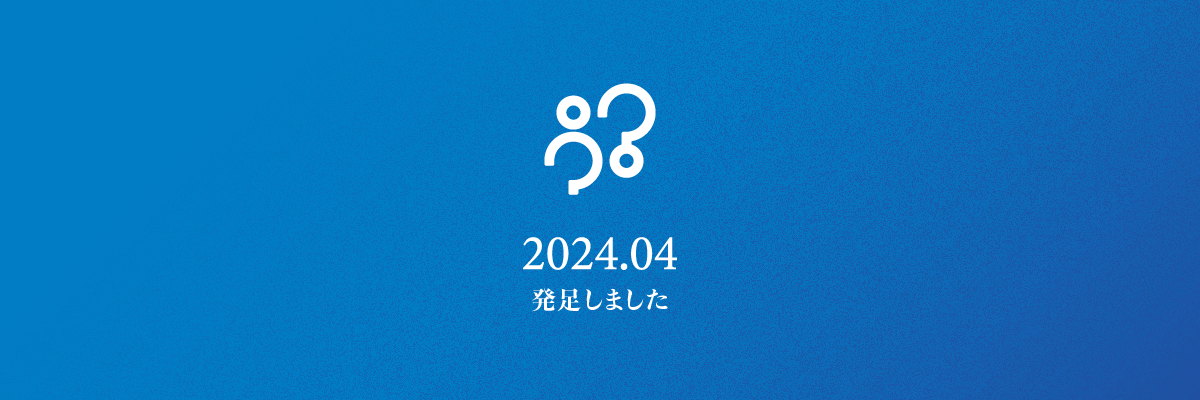
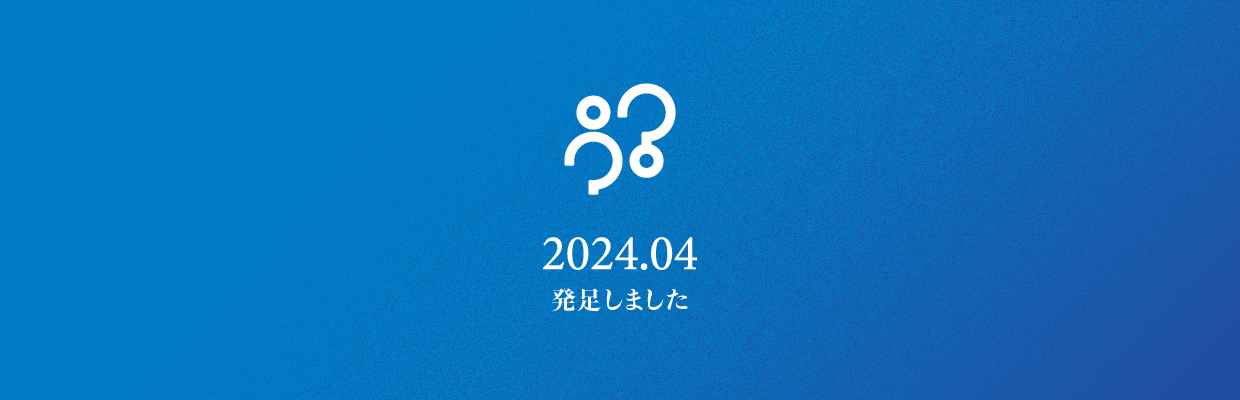
add top-visual slider

diff --git a/docs/static/css/style.css b/docs/static/css/style.css
@@ -1,1 +1,1 @@
-blockquote,body,dd,dl,figure,h1,h2,h3,h4,ol,p,ul{margin:0}a,body,html{color:var(--theme-color)}.ic,.top #header,div.app{position:relative}*,::after,::before{box-sizing:border-box}html{-moz-text-size-adjust:none;-webkit-text-size-adjust:none;text-size-adjust:none}ol[role=list],ul[role=list]{list-style:none}body{min-height:100vh;line-height:1.5}button,h1,h2,h3,h4,input,label{line-height:1.1}a:not([class]){text-decoration-skip-ink:auto;color:currentColor}.ic-web:before,a:hover{color:var(--accent-color)}img,picture{max-width:100%;display:block}button,input,select,textarea{font:inherit}textarea:not([rows]){min-height:10em}:target{scroll-margin-block:5ex}ol,ul{padding:0}:root{--font-family-serif:"Noto Serif JP",serif;--font-family-sans:"Noto Sans JP",Helvetica,Arial,sans-serif;--theme-color:#334;--accent-color:#007dc5;--side-margin:20px;--base-font-size:16px}.clearfix::after,main div.content article ol.multi-line ul::after,main div.content article ol.publication ul::after{content:"";display:block;clear:both}*{font-feature-settings:"palt";letter-spacing:.1rem;text-wrap:pretty}h1,h2,h3{background:linear-gradient(45deg,#303a91,#007dc5 25%);background:-webkit-linear-gradient(45deg,#303a91,#007dc5 25%);-webkit-background-clip:text;-webkit-text-fill-color:transparent}p{text-align:justify}body,html{font-family:var(--font-family-sans);font-size:var(--base-font-size)}a{text-decoration:none}.ic{font-family:"Material Icons Round";font-weight:400;font-style:normal;font-size:24px;display:inline-block;line-height:1;text-transform:none;letter-spacing:normal;word-wrap:normal;white-space:nowrap;direction:ltr;-webkit-font-smoothing:antialiased;text-rendering:optimizeLegibility;-moz-osx-font-smoothing:grayscale;font-feature-settings:"liga";top:2px}.ic-web:before{content:"public"}div.app{width:min(100vw,1280px);min-height:100vh;margin:0 auto}.top #header{overflow:hidden;width:100%;height:clamp(280px,28vw + 100px,460px)}.top #header div.logomark{position:relative;z-index:15;top:70px;left:clamp(15px,3.125vw,40px);width:clamp(90px,14.1%,180px);aspect-ratio:1}.top #header div.logomark:before{content:"";position:absolute;width:100%;height:100%;background:url(../img/logo/logomark.png) center center/100% auto no-repeat}.top #header.fixed div.logomark,.top #header.scaled div.logomark{position:fixed;top:12px;left:max(15px,3.125vw,50vw - 600px)}.top #header.fixed div.logomark{width:50px}.top #header.fixed div.logomark:before,.top #header.scaled div.logomark:before{width:clamp(50px,100%,180px)}.top #header div.logotype{position:absolute;z-index:0;bottom:30px;left:clamp(15px,3.125%,40px);width:clamp(450px,70.3%,900px);aspect-ratio:5}.top #header div.logotype>div{position:absolute;display:block;width:100%;height:100%}.top #header div.logotype>div.en{left:0;width:clamp(155px,34.4%,310px);background:url(../img/logo/logotype-en.png) center bottom/100% auto no-repeat}.top #header div.logotype>div.ja{right:0;width:clamp(280px,62.2%,560px);background:url(../img/logo/logotype-ja.png) center bottom/100% auto no-repeat}.page #header h1.logo a span,.top #header div.logotype>div span{display:none}.top #header div.logotype-fixed{content:"";position:fixed;z-index:15;top:-68px;width:160px;height:50px;margin:0 0 0 calc(clamp(15px,3.125vw,40px) + 56px);background:url(../img/logo/logotype-fixed.png) center center/100% auto no-repeat;opacity:0;transition:top .5s,opacity .3s}.page #header{height:70px}.page #header h1.logo{position:fixed;z-index:12;top:0}.page #header h1.logo a{position:relative;display:block;height:70px;width:calc(216px + clamp(30px,6.25vw,80px))}.page #header h1.logo a:before{content:"";position:absolute;left:clamp(15px,3.125vw,40px);top:12px;width:50px;height:50px;background:url(../img/logo/logomark.png) center center/100% no-repeat}.page #header h1.logo a:after{content:"";position:absolute;right:clamp(15px,3.125vw,40px);top:12px;width:160px;height:50px;background:url(../img/logo/logotype-fixed.png) right center/100% no-repeat}#header .header-fixed{position:fixed;z-index:10;top:0;left:0;width:100vw;height:70px;background:#fff}#header .header-fixed .container{position:relative;width:min(100vw,1280px);margin:0 auto}#header .header-fixed div.ic-drawer{display:block;position:absolute;right:-70px;top:0;width:70px;height:70px;background:url(../img/parts/ic-drawer-open.png) right center/auto 100% no-repeat;opacity:0;transition:right .5s,opacity .3s}#header .header-nav{position:fixed;z-index:11;top:0;width:min(100vw,1280px);height:70px}#header .header-nav ul{float:right;padding:0 30px 0 0}#header .header-nav ul li{list-style:none;float:left}#header .header-nav ul li a{position:relative;display:block;padding:20px 15px;line-height:30px;font-weight:700;font-size:.9rem}#header .header-nav ul li a:before{content:"";position:absolute;top:0;left:0;width:100%;height:6px;background:0 0}#header .header-nav ul li a:hover:before{background:var(--accent-color)}main{display:block;padding:0 var(--side-margin)}main div.slider ul li{list-style:none;width:100%;aspect-ratio:3;border-radius:15px;overflow:hidden}main div.slider ul li img{width:100%;height:100%;object-fit:cover}main header{display:flex;width:100%;height:128px;border-radius:15px;padding:0 0 5px;margin:4px 0 0;background:url(../img/parts/bg-subtitle.png) center center/cover no-repeat}main header h2{align-self:center;flex-grow:1;font-size:1.6rem;padding:0 30px;color:#fff;text-shadow:1px 1px 3px #000;background:0 0;-webkit-background-clip:initial;-webkit-text-fill-color:initial}main header h2 span{font-size:1rem;display:block}main div.content,main div.content-2col{display:block;padding:20px 0 30px}main div.content-2col section{float:left;width:50%;padding:20px}main div.content-2col section h2{margin:0 0 10px}main div.content-2col section *+h2{margin:30px 0 10px}main div.content article p,main div.content-2col section p{padding:0 0 10px}main div.content-2col section img{margin:5px 0 10px;border-radius:5px}main div.content-2col section footer{margin:10px 0;padding:10px;font-size:.8rem;border:1px dotted #ddd;border-width:1px 0 0}main div.content-2col section ul.news{border:1px dotted #ddd;border-width:1px 0 0}main div.content-2col section ul.news li{list-style:none;padding:10px 15px;border:1px dotted #ddd;border-width:0 0 1px}main div.content-2col section ul.news li time{display:block;color:#666;font-size:.9rem}main div.content-2col section div.news-more{text-align:right}main div.content-2col section div.news-more a{display:inline-block;padding:10px}main div.content-2col section div.twitter{margin:15px 5px}main div.content article{width:100%;padding:20px}main div.content article section{padding:0 0 20px}main div.content article h3{padding:10px 0 20px;font-size:1.5rem}main div.content article *+h3{padding:20px 0}main div.content article h4{padding:10px 0 15px;font-size:1.3rem}main div.content article section>p:last-child{padding:0 0 30px}main div.content article img.img-center{margin:20px auto;width:70%;max-width:600px;min-width:min(95%,400px);border-radius:10px}main div.content article div.container-flex-right-img,main div.content article ol.multi-line,main div.content article ol.publication{margin:0 0 20px}main div.content article div.container-flex-right-img img{float:right;margin:10px 20px;width:50%;min-width:400px}main div.content article aside{margin:10px 0;padding:10px;font-size:.8rem;border:1px dotted #ddd;border-width:1px 0}main div.content article div.project-card{margin:10px 0;padding:10px 20px;border:1px solid #eee;border-radius:5px}main div.content article ul{padding:0 0 0 30px;margin:0 0 30px}main div.content article ul li{margin:0 0 5px}main div.content article ul ul{margin:5px 0 15px}main div.content article ul.keyword{padding:0}main div.content article ul.keyword li{list-style:none;display:inline-block;font-size:.8rem;padding:5px 15px;margin:8px 8px 0 0;border-radius:20px;background:#eee}main div.content article ul.people{display:flex;flex-direction:row;flex-wrap:wrap;padding:0;width:100%}main div.content article ul.people li{flex-basis:48%;margin:0 2% 20px 0;list-style:none;text-align:center}main div.content article ul.people li img{width:100%;aspect-ratio:1;border-radius:15px}main div.content article ul.people li h4{padding:8px 0 5px;font-size:1.2rem}main div.content article ul.people li small,main div.content article ul.people li span{display:block;font-size:.9rem;letter-spacing:.05rem}main div.content article ul.people li .ic-web{font-size:1.1rem;padding:0 0 0 5px;margin:0 -10px 0 0}main div.content article ol.multi-line *,main div.content article ol.publication *{font-size:.9rem;letter-spacing:.05rem;text-align:justify;word-wrap:normal;word-break:normal}main div.content article ol.multi-line ul,main div.content article ol.publication ul{padding:0;margin:0}main div.content article ol.multi-line ul li,main div.content article ol.publication ul li{list-style:none;float:left;background:#eee;border-radius:8px;margin:0 5px 0 0}main div.content article ol.multi-line ul li a,main div.content article ol.publication ul li a{display:block;padding:2px 10px 4px}main div.content article ol.multi-line ul li.award,main div.content article ol.publication ul li.award{background:#e5f2f9}main div.content article ol.multi-line li,main div.content article ol.publication li.ref-item{margin:5px 5px 10px 30px}main div.content article ol.publication li.ref-item span.author{font-weight:700}main div.content article ol.publication li.ref-item span.title{display:block;font-weight:700;color:var(--accent-color)}main div.content article ol.publication li.ref-item p{padding:0 0 6px}main div.content article ol.multi-line li a{display:block;padding:0 0 2px}main div.content article ol.multi-line li p{color:var(--accent-color);padding:0 0 6px;line-height:20px;font-weight:700}main div.content article ol.multi-line li span{display:block;padding:2px 0 0;color:#666;line-height:20px;font-weight:400}main div.content article div.access-map{margin:10px 0;padding:0;border-radius:10px;overflow:hidden}main div.content article div.access-map iframe{display:block;width:100%}footer{margin:0 var(--side-margin) 30px}footer div.container{height:500px;background:var(--theme-color) url(../img/logo/logo-footer.png) right 20px bottom 20px no-repeat;background-size:min(320px,60%) auto;border-radius:15px;padding:30px}footer div.container ul li{list-style:none;color:#fff}footer div.container ul li a{display:block;font-weight:700;color:#ccc;padding:5px 10px}footer div.container ul li a:hover{color:#fff}footer p.copyright{display:block;text-align:center;padding:15px 0;font-size:.8rem}@media screen and (min-width:480px){main div.content article ul.people li{flex-basis:31%}}@media screen and ((max-width:640px) or (min-width:780px)){.top #header.fixed div.logotype-fixed{top:12px;opacity:1}}@media screen and (min-width:640px){main div.content nav{position:sticky;top:70px;float:left;width:25%;padding:20px;margin:5px 0}main div.content nav ul li{list-style:none;width:100%;line-height:20px;padding:10px;cursor:pointer}main div.content nav ul li ul{padding:10px 0 0}main div.content nav ul li ul li{list-style:circle;margin:0 0 0 25px;padding:5px 10px}main div.content article{float:right;width:75%}}@media screen and ((min-width:641px) and (max-width:779px)){.page #header h1.logo a:after{display:none}}@media screen and (min-width:920px){main div.content article ul.people li{flex-basis:23%}}@media screen and (max-width:1080px){main div.content article div.container-flex-right-img{display:flex;flex-direction:column}main div.content article div.container-flex-right-img img{order:3;float:none;margin:10px auto 20px;width:100%;max-width:600px;min-width:auto}}@media screen and (max-width:920px){:root{--side-margin:15px;--base-font-size:15px}.top #header{height:clamp(275px,28vw + 95px,455px)}.top #header div.logotype{bottom:25px}#header .header-nav ul li a{padding:20px 8px;font-size:.9rem}main div.slider ul li{aspect-ratio:2.5}}@media screen and (max-width:640px){:root{--side-margin:10px;--base-font-size:14px}.top #header{height:clamp(265px,28vw + 85px,445px)}.top #header div.logotype{bottom:15px;width:70.3%;max-width:155px;aspect-ratio:31/18}.top #header div.logotype>div.en{width:100%}.top #header div.logotype>div.ja{display:none}#header.fixed .header-fixed div.ic-drawer{right:-10px;opacity:1}#header.fixed .header-fixed div.ic-drawer:hover{right:0;cursor:pointer}#header.drawer-opened .header-fixed div.ic-drawer{background:url(../img/parts/ic-drawer-close.png) right center/auto 100% no-repeat}#header .header-nav{position:absolute;width:100vw;height:auto}#header .header-nav ul{position:absolute;top:20px;right:0;width:40vw;padding:0;transition:opacity .3s;background:#fff}#header .header-nav ul li{float:none;width:100%}#header .header-nav ul li a{width:100%;height:30px;padding:0 20px 0 0;text-align:right}#header .header-nav ul li a:before{content:"";position:absolute;top:0;left:auto;right:0;width:6px;height:100%;background:0 0}#header .header-nav ul li a:hover:before{background:var(--accent-color)}#header.fixed .header-nav ul{position:fixed;opacity:0;right:-40vw}#header.drawer-opened .header-nav{position:fixed}#header.drawer-opened .header-nav ul{top:70px;width:100vw;height:calc(100vh - 70px);opacity:1;right:0}#header.drawer-opened .header-nav ul li a{height:40px;line-height:40px;font-size:1rem}main div.slider ul li{aspect-ratio:2}main div.content-2col section{float:none;width:100%}}@media screen and (max-width:639px){main div.content nav{width:100%;padding:15px 10px 5px}main div.content nav ul li{list-style:none;float:left;margin:0 10px 0 0;padding:5px 10px}main div.content nav ul li ul{display:none}}@media screen and (max-width:360px){#header .header-nav ul{opacity:0;right:-40vw}}
+blockquote,body,dd,dl,figure,h1,h2,h3,h4,ol,p,ul{margin:0}a,body,html{color:var(--theme-color)}.ic,.top #header,div.app{position:relative}main div.slider,main header{width:100%;border-radius:15px}*,::after,::before{box-sizing:border-box}html{-moz-text-size-adjust:none;-webkit-text-size-adjust:none;text-size-adjust:none}ol[role=list],ul[role=list]{list-style:none}body{min-height:100vh;line-height:1.5}button,h1,h2,h3,h4,input,label{line-height:1.1}a:not([class]){text-decoration-skip-ink:auto;color:currentColor}.ic-web:before,a:hover{color:var(--accent-color)}img,picture{max-width:100%;display:block}button,input,select,textarea{font:inherit}textarea:not([rows]){min-height:10em}:target{scroll-margin-block:5ex}ol,ul{padding:0}:root{--font-family-serif:"Noto Serif JP",serif;--font-family-sans:"Noto Sans JP",Helvetica,Arial,sans-serif;--theme-color:#334;--accent-color:#007dc5;--side-margin:20px;--base-font-size:16px}.clearfix::after,main div.content article ol.multi-line ul::after,main div.content article ol.publication ul::after{content:"";display:block;clear:both}*{font-feature-settings:"palt";letter-spacing:.1rem;text-wrap:pretty}h1,h2,h3{background:linear-gradient(45deg,#303a91,#007dc5 25%);background:-webkit-linear-gradient(45deg,#303a91,#007dc5 25%);-webkit-background-clip:text;-webkit-text-fill-color:transparent}p{text-align:justify}body,html{font-family:var(--font-family-sans);font-size:var(--base-font-size)}a{text-decoration:none}.ic{font-family:"Material Icons Round";font-weight:400;font-style:normal;font-size:24px;display:inline-block;line-height:1;text-transform:none;letter-spacing:normal;word-wrap:normal;white-space:nowrap;direction:ltr;-webkit-font-smoothing:antialiased;text-rendering:optimizeLegibility;-moz-osx-font-smoothing:grayscale;font-feature-settings:"liga";top:2px}.ic-web:before{content:"public"}div.app{width:min(100vw,1280px);min-height:100vh;margin:0 auto}.top #header{overflow:hidden;width:100%;height:clamp(280px,28vw + 100px,460px)}.top #header div.logomark{position:relative;z-index:15;top:70px;left:clamp(15px,3.125vw,40px);width:clamp(90px,14.1%,180px);aspect-ratio:1}.top #header div.logomark:before{content:"";position:absolute;width:100%;height:100%;background:url(../img/logo/logomark.png) center center/100% auto no-repeat}.top #header.fixed div.logomark,.top #header.scaled div.logomark{position:fixed;top:12px;left:max(15px,3.125vw,50vw - 600px)}.top #header.fixed div.logomark{width:50px}.top #header.fixed div.logomark:before,.top #header.scaled div.logomark:before{width:clamp(50px,100%,180px)}.top #header div.logotype{position:absolute;z-index:0;bottom:30px;left:clamp(15px,3.125%,40px);width:clamp(450px,70.3%,900px);aspect-ratio:5}.top #header div.logotype>div{position:absolute;display:block;width:100%;height:100%}.top #header div.logotype>div.en{left:0;width:clamp(155px,34.4%,310px);background:url(../img/logo/logotype-en.png) center bottom/100% auto no-repeat}.top #header div.logotype>div.ja{right:0;width:clamp(280px,62.2%,560px);background:url(../img/logo/logotype-ja.png) center bottom/100% auto no-repeat}.page #header h1.logo a span,.top #header div.logotype>div span{display:none}.top #header div.logotype-fixed{content:"";position:fixed;z-index:15;top:-68px;width:160px;height:50px;margin:0 0 0 calc(clamp(15px,3.125vw,40px) + 56px);background:url(../img/logo/logotype-fixed.png) center center/100% auto no-repeat;opacity:0;transition:top .5s,opacity .3s}.page #header{height:70px}.page #header h1.logo{position:fixed;z-index:12;top:0}.page #header h1.logo a{position:relative;display:block;height:70px;width:calc(216px + clamp(30px,6.25vw,80px))}.page #header h1.logo a:before{content:"";position:absolute;left:clamp(15px,3.125vw,40px);top:12px;width:50px;height:50px;background:url(../img/logo/logomark.png) center center/100% no-repeat}.page #header h1.logo a:after{content:"";position:absolute;right:clamp(15px,3.125vw,40px);top:12px;width:160px;height:50px;background:url(../img/logo/logotype-fixed.png) right center/100% no-repeat}#header .header-fixed{position:fixed;z-index:10;top:0;left:0;width:100vw;height:70px;background:#fff}#header .header-fixed .container{position:relative;width:min(100vw,1280px);margin:0 auto}#header .header-fixed div.ic-drawer{display:block;position:absolute;right:-70px;top:0;width:70px;height:70px;background:url(../img/parts/ic-drawer-open.png) right center/auto 100% no-repeat;opacity:0;transition:right .5s,opacity .3s}#header .header-nav{position:fixed;z-index:11;top:0;width:min(100vw,1280px);height:70px}#header .header-nav ul{float:right;padding:0 30px 0 0}#header .header-nav ul li{list-style:none;float:left}#header .header-nav ul li a{position:relative;display:block;padding:20px 15px;line-height:30px;font-weight:700;font-size:.9rem}#header .header-nav ul li a:before{content:"";position:absolute;top:0;left:0;width:100%;height:6px;background:0 0}#header .header-nav ul li a:hover:before{background:var(--accent-color)}main{display:block;padding:0 var(--side-margin)}main div.slider{position:relative;aspect-ratio:3.1;overflow:hidden;background:#999}main div.slider ul{position:absolute;z-index:0;top:0;left:0;width:100%;transition:top 1s ease-in-out}main div.slider ul li{list-style:none;width:100%;aspect-ratio:3.1}main div.slider ul li img{width:100%;height:100%;object-fit:cover}main div.slider div.slider-progress{position:absolute;z-index:10;top:15px;left:15px;width:100px;height:10px;border-radius:5px;background:rgba(0,0,0,.2);overflow:hidden}main div.slider div.slider-progress p.progress-bar{width:0;height:10px;border-radius:5px;background:rgba(0,0,0,.3);transition:width .3s linear}main div.slider div.slider-progress p.progress-bar.anim{width:100px;transition:width 4.5s ease-out}main header{display:flex;height:128px;padding:0 0 5px;margin:4px 0 0;background:url(../img/parts/bg-subtitle.png) center center/cover no-repeat}main header h2{align-self:center;flex-grow:1;font-size:1.6rem;padding:0 30px;color:#fff;text-shadow:1px 1px 3px #000;background:0 0;-webkit-background-clip:initial;-webkit-text-fill-color:initial}main header h2 span{font-size:1rem;display:block}main div.content,main div.content-2col{display:block;padding:20px 0 30px}main div.content-2col section{float:left;width:50%;padding:20px}main div.content-2col section h2{margin:0 0 10px}main div.content-2col section *+h2{margin:30px 0 10px}main div.content article p,main div.content-2col section p{padding:0 0 10px}main div.content-2col section img{margin:5px 0 10px;border-radius:5px}main div.content-2col section footer{margin:10px 0;padding:10px;font-size:.8rem;border:1px dotted #ddd;border-width:1px 0 0}main div.content-2col section ul.news{border:1px dotted #ddd;border-width:1px 0 0}main div.content-2col section ul.news li{list-style:none;padding:10px 15px;border:1px dotted #ddd;border-width:0 0 1px}main div.content-2col section ul.news li time{display:block;color:#666;font-size:.9rem}main div.content-2col section div.news-more{text-align:right}main div.content-2col section div.news-more a{display:inline-block;padding:10px}main div.content-2col section div.twitter{margin:15px 5px}main div.content article{width:100%;padding:20px}main div.content article section{padding:0 0 20px}main div.content article h3{padding:10px 0 20px;font-size:1.5rem}main div.content article *+h3{padding:20px 0}main div.content article h4{padding:10px 0 15px;font-size:1.3rem}main div.content article section>p:last-child{padding:0 0 30px}main div.content article img.img-center{margin:20px auto;width:70%;max-width:600px;min-width:min(95%,400px);border-radius:10px}main div.content article div.container-flex-right-img,main div.content article ol.multi-line,main div.content article ol.publication{margin:0 0 20px}main div.content article div.container-flex-right-img img{float:right;margin:10px 20px;width:50%;min-width:400px}main div.content article aside{margin:10px 0;padding:10px;font-size:.8rem;border:1px dotted #ddd;border-width:1px 0}main div.content article div.project-card{margin:10px 0;padding:10px 20px;border:1px solid #eee;border-radius:5px}main div.content article ul{padding:0 0 0 30px;margin:0 0 30px}main div.content article ul li{margin:0 0 5px}main div.content article ul ul{margin:5px 0 15px}main div.content article ul.keyword{padding:0}main div.content article ul.keyword li{list-style:none;display:inline-block;font-size:.8rem;padding:5px 15px;margin:8px 8px 0 0;border-radius:20px;background:#eee}main div.content article ul.people{display:flex;flex-direction:row;flex-wrap:wrap;padding:0;width:100%}main div.content article ul.people li{flex-basis:48%;margin:0 2% 20px 0;list-style:none;text-align:center}main div.content article ul.people li img{width:100%;aspect-ratio:1;border-radius:15px}main div.content article ul.people li h4{padding:8px 0 5px;font-size:1.2rem}main div.content article ul.people li small,main div.content article ul.people li span{display:block;font-size:.9rem;letter-spacing:.05rem}main div.content article ul.people li .ic-web{font-size:1.1rem;padding:0 0 0 5px;margin:0 -10px 0 0}main div.content article ol.multi-line *,main div.content article ol.publication *{font-size:.9rem;letter-spacing:.05rem;text-align:justify;word-wrap:normal;word-break:normal}main div.content article ol.multi-line ul,main div.content article ol.publication ul{padding:0;margin:0}main div.content article ol.multi-line ul li,main div.content article ol.publication ul li{list-style:none;float:left;background:#eee;border-radius:8px;margin:0 5px 0 0}main div.content article ol.multi-line ul li a,main div.content article ol.publication ul li a{display:block;padding:2px 10px 4px}main div.content article ol.multi-line ul li.award,main div.content article ol.publication ul li.award{background:#e5f2f9}main div.content article ol.multi-line li,main div.content article ol.publication li.ref-item{margin:5px 5px 10px 30px}main div.content article ol.publication li.ref-item span.author{font-weight:700}main div.content article ol.publication li.ref-item span.title{display:block;font-weight:700;color:var(--accent-color)}main div.content article ol.publication li.ref-item p{padding:0 0 6px}main div.content article ol.multi-line li a{display:block;padding:0 0 2px}main div.content article ol.multi-line li p{color:var(--accent-color);padding:0 0 6px;line-height:20px;font-weight:700}main div.content article ol.multi-line li span{display:block;padding:2px 0 0;color:#666;line-height:20px;font-weight:400}main div.content article div.access-map{margin:10px 0;padding:0;border-radius:10px;overflow:hidden}main div.content article div.access-map iframe{display:block;width:100%}footer{margin:0 var(--side-margin) 30px}footer div.container{height:500px;background:var(--theme-color) url(../img/logo/logo-footer.png) right 20px bottom 20px no-repeat;background-size:min(320px,60%) auto;border-radius:15px;padding:30px}footer div.container ul li{list-style:none;color:#fff}footer div.container ul li a{display:block;font-weight:700;color:#ccc;padding:5px 10px}footer div.container ul li a:hover{color:#fff}footer p.copyright{display:block;text-align:center;padding:15px 0;font-size:.8rem}@media screen and (min-width:480px){main div.content article ul.people li{flex-basis:31%}}@media screen and ((max-width:640px) or (min-width:780px)){.top #header.fixed div.logotype-fixed{top:12px;opacity:1}}@media screen and (min-width:640px){main div.content nav{position:sticky;top:70px;float:left;width:25%;padding:20px;margin:5px 0}main div.content nav ul li{list-style:none;width:100%;line-height:20px;padding:10px;cursor:pointer}main div.content nav ul li ul{padding:10px 0 0}main div.content nav ul li ul li{list-style:circle;margin:0 0 0 25px;padding:5px 10px}main div.content article{float:right;width:75%}}@media screen and ((min-width:641px) and (max-width:779px)){.page #header h1.logo a:after{display:none}}@media screen and (min-width:920px){main div.content article ul.people li{flex-basis:23%}}@media screen and (max-width:1080px){main div.content article div.container-flex-right-img{display:flex;flex-direction:column}main div.content article div.container-flex-right-img img{order:3;float:none;margin:10px auto 20px;width:100%;max-width:600px;min-width:auto}}@media screen and (max-width:920px){:root{--side-margin:15px;--base-font-size:15px}.top #header{height:clamp(275px,28vw + 95px,455px)}.top #header div.logotype{bottom:25px}#header .header-nav ul li a{padding:20px 8px;font-size:.9rem}main div.slider,main div.slider ul li{aspect-ratio:2.5}}@media screen and (max-width:640px){:root{--side-margin:10px;--base-font-size:14px}.top #header{height:clamp(265px,28vw + 85px,445px)}.top #header div.logotype{bottom:15px;width:70.3%;max-width:155px;aspect-ratio:31/18}.top #header div.logotype>div.en{width:100%}.top #header div.logotype>div.ja{display:none}#header.fixed .header-fixed div.ic-drawer{right:-10px;opacity:1}#header.fixed .header-fixed div.ic-drawer:hover{right:0;cursor:pointer}#header.drawer-opened .header-fixed div.ic-drawer{background:url(../img/parts/ic-drawer-close.png) right center/auto 100% no-repeat}#header .header-nav{position:absolute;width:100vw;height:auto}#header .header-nav ul{position:absolute;top:20px;right:0;width:40vw;padding:0;transition:opacity .3s;background:#fff}#header .header-nav ul li{float:none;width:100%}#header .header-nav ul li a{width:100%;height:30px;padding:0 20px 0 0;text-align:right}#header .header-nav ul li a:before{content:"";position:absolute;top:0;left:auto;right:0;width:6px;height:100%;background:0 0}#header .header-nav ul li a:hover:before{background:var(--accent-color)}#header.fixed .header-nav ul{position:fixed;opacity:0;right:-40vw}#header.drawer-opened .header-nav{position:fixed}#header.drawer-opened .header-nav ul{top:70px;width:100vw;height:calc(100vh - 70px);opacity:1;right:0}#header.drawer-opened .header-nav ul li a{height:40px;line-height:40px;font-size:1rem}main div.slider,main div.slider ul li{aspect-ratio:2}main div.slider div.slider-progress{width:60px;height:6px;border-radius:3px}main div.slider div.slider-progress p.progress-bar{height:6px;border-radius:3px}main div.slider div.slider-progress p.progress-bar.anim{width:60px}main div.content-2col section{float:none;width:100%}}@media screen and (max-width:639px){main div.content nav{width:100%;padding:15px 10px 5px}main div.content nav ul li{list-style:none;float:left;margin:0 10px 0 0;padding:5px 10px}main div.content nav ul li ul{display:none}}@media screen and (max-width:360px){#header .header-nav ul{opacity:0;right:-40vw}}

diff --git a/docs/static/js/main.js b/docs/static/js/main.js
@@ -1,1 +1,1 @@
-import{createApp}from"vue";import axios from"axios";const $=e=>document.getElementById(e),app=createApp({delimiters:["${","}"],data(){return{pageType:"page",logoWidth:180,news:[]}},created:function(){this.pageType=$("app").dataset.type,"top"==this.pageType&&(window.addEventListener("scroll",this.onScroll),window.addEventListener("resize",this.onResizeWindow))},mounted:function(){"top"==this.pageType&&(this.onResizeWindow(),this.onScroll(),this.loadTumblrNews())},destroyed:function(){"top"==this.pageType&&window.removeEventListener("scroll",this.onScroll)},methods:{onResizeWindow(){var e=window.innerWidth;this.logoWidth=1280<e?180:e<640?90:180*e/1280},onScroll(){window.scrollY>2*this.logoWidth?$("header").classList.add("fixed"):58<window.scrollY?($("header").classList.add("scaled"),$("header").classList.remove("fixed"),$("header").classList.remove("drawer-opened"),$("logomark").style.width=Math.max(50,this.logoWidth+58-window.scrollY)+"px"):($("header").classList.remove("scaled"),$("logomark").style.width="")},openDrawerMenu(){$("header").classList.toggle("drawer-opened")},scrollTo(e){window.scrollTo({top:$(e).offsetTop-85,behavior:"smooth"})},async loadTumblrNews(){axios.get("https://cocolab.yukimat.jp/rss/",{headers:{"Content-Type":"application/x-www-form-urlencoded"}}).then(e=>{200==e.status&&(this.news=e.data.news)}).catch(e=>{console.log("err:",e)})},getPrettyDate(e){return new Date(e).toLocaleDateString("ja-JP",{year:"numeric",month:"2-digit",day:"2-digit"}).replaceAll("/",".")}}});app.mount("#app");
+import{createApp}from"vue";import axios from"axios";const $=e=>document.getElementById(e),SLIDE_ITEMS=[{img:"202404_startup",url:"https://note.com/cocolabjp/n/n705cb3d2b866"},{img:"202409_ipsjKansai",url:"https://cocolabjp.tumblr.com/post/763005611667570688"},{img:"202409_100program",url:"https://cocolabjp.tumblr.com/post/762935350489464832"}],app=createApp({delimiters:["${","}"],data(){return{pageType:"page",logoWidth:180,news:[],slides:SLIDE_ITEMS,slideIndex:-1}},created:function(){this.pageType=$("app").dataset.type,"top"==this.pageType&&(window.addEventListener("scroll",this.onScroll),window.addEventListener("resize",this.onResizeWindow))},mounted:function(){"top"==this.pageType&&(this.onResizeWindow(),this.onScroll(),this.setupSlideshow(),this.loadTumblrNews())},destroyed:function(){"top"==this.pageType&&window.removeEventListener("scroll",this.onScroll)},methods:{onResizeWindow(){var e=window.innerWidth;this.logoWidth=1280<e?180:e<640?90:180*e/1280},onScroll(){window.scrollY>2*this.logoWidth?$("header").classList.add("fixed"):58<window.scrollY?($("header").classList.add("scaled"),$("header").classList.remove("fixed"),$("header").classList.remove("drawer-opened"),$("logomark").style.width=Math.max(50,this.logoWidth+58-window.scrollY)+"px"):($("header").classList.remove("scaled"),$("logomark").style.width="")},setupSlideshow(){this.slideshowAnim(),setInterval(()=>{this.slideshowAnim()},5e3)},slideshowAnim(){$("progress-bar").classList.remove("anim"),setTimeout(()=>{$("progress-bar").classList.add("anim")},500),this.slideIndex++,this.slideIndex==this.slides.length&&(this.slideIndex=0),$("slider-content").style.top=-100*this.slideIndex+"%"},getSlideImgSrc(e){return"/static/img/top-visual/"+e.img+".png"},openDrawerMenu(){$("header").classList.toggle("drawer-opened")},scrollTo(e){window.scrollTo({top:$(e).offsetTop-85,behavior:"smooth"})},async loadTumblrNews(){axios.get("https://cocolab.yukimat.jp/rss/",{headers:{"Content-Type":"application/x-www-form-urlencoded"}}).then(e=>{200==e.status&&(this.news=e.data.news)}).catch(e=>{console.log("err:",e)})},getPrettyDate(e){return new Date(e).toLocaleDateString("ja-JP",{year:"numeric",month:"2-digit",day:"2-digit"}).replaceAll("/",".")}}});app.mount("#app");

diff --git a/src/css/style.scss b/src/css/style.scss
@@ -395,23 +395,65 @@ main {
   display: block;
   padding: 0 var(--side-margin);
   div.slider {
+    position: relative;
+    width: 100%;
+    aspect-ratio: 3.1;
+    @media screen and (max-width: 920px) { aspect-ratio: 2.5; }
+    @media screen and (max-width: 640px) { aspect-ratio: 2.0; }
+    border-radius: 15px;
+    overflow: hidden;
+    background: #999;
     ul {
+      position: absolute;
+      z-index: 0;
+      top: 0;
+      left: 0;
+      width: 100%;
+      transition: 1s top ease-in-out;
       li {
         list-style: none;
         width: 100%;
-        aspect-ratio: 3;
-        @media screen and (max-width: 920px) {
-          aspect-ratio: 2.5;
-        }
-        @media screen and (max-width: 640px) {
-          aspect-ratio: 2;
-        }
-        border-radius: 15px;
-        overflow: hidden;
+        aspect-ratio: 3.1;
+        @media screen and (max-width: 920px) { aspect-ratio: 2.5; }
+        @media screen and (max-width: 640px) { aspect-ratio: 2.0; }
         img {
           width: 100%;
           height: 100%;
           object-fit: cover;
+        }
+      }
+    }
+    div.slider-progress {
+      position: absolute;
+      z-index: 10;
+      top: 15px;
+      left: 15px;
+      width: 100px;
+      height: 10px;
+      border-radius: 5px;
+      background: rgba(0, 0, 0, 0.2);
+      overflow: hidden;
+      p.progress-bar {
+        width: 0px;
+        height: 10px;
+        border-radius: 5px;
+        background: rgba(0, 0, 0, 0.3);
+        transition: 0.3s width linear;
+      }
+      p.progress-bar.anim {
+        width: 100px;
+        transition: 4.5s width ease-out;
+      }
+      @media screen and (max-width: 640px) {
+        width: 60px;
+        height: 6px;
+        border-radius: 3px;
+        p.progress-bar {
+          height: 6px;
+          border-radius: 3px;
+        }
+        p.progress-bar.anim {
+          width: 60px;
         }
       }
     }

diff --git a/src/js/main.js b/src/js/main.js
@@ -5,6 +5,12 @@ const $ = (id) => {
   return document.getElementById(id);
 }
 
+const SLIDE_ITEMS = [
+  {"img": "202404_startup", "url": "https://note.com/cocolabjp/n/n705cb3d2b866"},
+  {"img": "202409_ipsjKansai", "url": "https://cocolabjp.tumblr.com/post/763005611667570688"},
+  {"img": "202409_100program", "url": "https://cocolabjp.tumblr.com/post/762935350489464832"}
+];
+
 const app = createApp({
   delimiters: ['${', '}'],
   data() {
@@ -12,6 +18,8 @@ const app = createApp({
       pageType: 'page',
       logoWidth: 180,
       news: [],
+      slides: SLIDE_ITEMS,
+      slideIndex: -1,
     };
   },
   created: function() {
@@ -25,6 +33,7 @@ const app = createApp({
     if(this.pageType == 'top') {
       this.onResizeWindow();
       this.onScroll();
+      this.setupSlideshow();
       this.loadTumblrNews();
     }
   },
@@ -52,6 +61,22 @@ const app = createApp({
         $("header").classList.remove("scaled");
         $("logomark").style.width = "";
       }
+    },
+    setupSlideshow() {
+      this.slideshowAnim();
+      setInterval(() => {
+        this.slideshowAnim();
+      }, 5000);
+    },
+    slideshowAnim() {
+      $("progress-bar").classList.remove("anim");
+      setTimeout(() => { $("progress-bar").classList.add("anim"); }, 500);
+      this.slideIndex++;
+      if(this.slideIndex == this.slides.length) { this.slideIndex = 0; }
+      $("slider-content").style.top = (-100 * this.slideIndex) + "%";
+    },
+    getSlideImgSrc(slide) {
+      return "/static/img/top-visual/" + slide.img + ".png";
     },
     openDrawerMenu() {
       $("header").classList.toggle("drawer-opened");

diff --git a/docs/index.html b/docs/index.html
@@ -11,7 +11,7 @@
 <link rel="preconnect" href="https://fonts.googleapis.com">
 <link rel="preconnect" href="https://fonts.gstatic.com" crossorigin>
 <link href="https://fonts.googleapis.com/css2?family=Noto+Sans+JP:wght@300;600&family=Noto+Serif+JP:wght@300;600&display=swap" rel="stylesheet">
-<link rel="stylesheet" type="text/css" href="/static/css/style.css?v=20240920.115006">
+<link rel="stylesheet" type="text/css" href="/static/css/style.css?v=20240930.005512">
 </head>
 <body>
 <div class="app top" id="app" data-type="top">
@@ -47,9 +47,10 @@
 <main class="clearfix">
   <section>
     <div class="slider">
-      <ul>
-        <li><img src="/static/img/top-visual/202404_startup.png"></li>
+      <ul id="slider-content">
+        <li v-for="slide in slides"><a :href="slide.url" target="_blank"><img :src="getSlideImgSrc(slide)" loading="lazy"></a></li>
       </ul>
+      <div class="slider-progress"><p class="progress-bar" id="progress-bar"></p></div>
     </div>
     <div class="content-2col clearfix">
       <section>
@@ -113,6 +114,6 @@
     "axios": "https://unpkg.com/axios/dist/esm/axios.min.js"
   }
 }</script>
-<script src="/static/js/main.js?v=20240920.115006" type="module"></script>
+<script src="/static/js/main.js?v=20240930.005512" type="module"></script>
 </body>
 </html>

diff --git a/docs/publication/index.html b/docs/publication/index.html
@@ -14,7 +14,7 @@
 <link rel="preconnect" href="https://fonts.gstatic.com" crossorigin>
 <link href="https://fonts.googleapis.com/css2?family=Noto+Sans+JP:wght@300;600&family=Noto+Serif+JP:wght@300;600&display=swap" rel="stylesheet">
 <link href="https://fonts.googleapis.com/icon?family=Material+Icons+Round" rel="stylesheet">
-<link rel="stylesheet" type="text/css" href="/static/css/style.css?v=20240920.115006">
+<link rel="stylesheet" type="text/css" href="/static/css/style.css?v=20240930.005512">
 </head>
 <body>
 <div class="app page publication" id="app" data-type="page">
@@ -362,6 +362,6 @@ https://doi.org/10.1145/3580784">DOI</a></li>
     "axios": "https://unpkg.com/axios/dist/esm/axios.min.js"
   }
 }</script>
-<script src="/static/js/main.js?v=20240920.115006" type="module"></script>
+<script src="/static/js/main.js?v=20240930.005512" type="module"></script>
 </body>
 </html>

diff --git a/docs/project/index.html b/docs/project/index.html
@@ -14,7 +14,7 @@
 <link rel="preconnect" href="https://fonts.gstatic.com" crossorigin>
 <link href="https://fonts.googleapis.com/css2?family=Noto+Sans+JP:wght@300;600&family=Noto+Serif+JP:wght@300;600&display=swap" rel="stylesheet">
 <link href="https://fonts.googleapis.com/icon?family=Material+Icons+Round" rel="stylesheet">
-<link rel="stylesheet" type="text/css" href="/static/css/style.css?v=20240920.115006">
+<link rel="stylesheet" type="text/css" href="/static/css/style.css?v=20240930.005512">
 </head>
 <body>
 <div class="app page project" id="app" data-type="page">
@@ -258,6 +258,6 @@
     "axios": "https://unpkg.com/axios/dist/esm/axios.min.js"
   }
 }</script>
-<script src="/static/js/main.js?v=20240920.115006" type="module"></script>
+<script src="/static/js/main.js?v=20240930.005512" type="module"></script>
 </body>
 </html>

diff --git a/docs/access/index.html b/docs/access/index.html
@@ -14,7 +14,7 @@
 <link rel="preconnect" href="https://fonts.gstatic.com" crossorigin>
 <link href="https://fonts.googleapis.com/css2?family=Noto+Sans+JP:wght@300;600&family=Noto+Serif+JP:wght@300;600&display=swap" rel="stylesheet">
 <link href="https://fonts.googleapis.com/icon?family=Material+Icons+Round" rel="stylesheet">
-<link rel="stylesheet" type="text/css" href="/static/css/style.css?v=20240920.115006">
+<link rel="stylesheet" type="text/css" href="/static/css/style.css?v=20240930.005512">
 </head>
 <body>
 <div class="app page access" id="app" data-type="page">
@@ -103,6 +103,6 @@
     "axios": "https://unpkg.com/axios/dist/esm/axios.min.js"
   }
 }</script>
-<script src="/static/js/main.js?v=20240920.115006" type="module"></script>
+<script src="/static/js/main.js?v=20240930.005512" type="module"></script>
 </body>
 </html>

diff --git a/docs/people/index.html b/docs/people/index.html
@@ -14,7 +14,7 @@
 <link rel="preconnect" href="https://fonts.gstatic.com" crossorigin>
 <link href="https://fonts.googleapis.com/css2?family=Noto+Sans+JP:wght@300;600&family=Noto+Serif+JP:wght@300;600&display=swap" rel="stylesheet">
 <link href="https://fonts.googleapis.com/icon?family=Material+Icons+Round" rel="stylesheet">
-<link rel="stylesheet" type="text/css" href="/static/css/style.css?v=20240920.115006">
+<link rel="stylesheet" type="text/css" href="/static/css/style.css?v=20240930.005512">
 </head>
 <body>
 <div class="app page people" id="app" data-type="page">
@@ -284,6 +284,6 @@
     "axios": "https://unpkg.com/axios/dist/esm/axios.min.js"
   }
 }</script>
-<script src="/static/js/main.js?v=20240920.115006" type="module"></script>
+<script src="/static/js/main.js?v=20240930.005512" type="module"></script>
 </body>
 </html>

diff --git a/docs/about/index.html b/docs/about/index.html
@@ -14,7 +14,7 @@
 <link rel="preconnect" href="https://fonts.gstatic.com" crossorigin>
 <link href="https://fonts.googleapis.com/css2?family=Noto+Sans+JP:wght@300;600&family=Noto+Serif+JP:wght@300;600&display=swap" rel="stylesheet">
 <link href="https://fonts.googleapis.com/icon?family=Material+Icons+Round" rel="stylesheet">
-<link rel="stylesheet" type="text/css" href="/static/css/style.css?v=20240920.115006">
+<link rel="stylesheet" type="text/css" href="/static/css/style.css?v=20240930.005512">
 </head>
 <body>
 <div class="app page about" id="app" data-type="page">
@@ -157,6 +157,6 @@
     "axios": "https://unpkg.com/axios/dist/esm/axios.min.js"
   }
 }</script>
-<script src="/static/js/main.js?v=20240920.115006" type="module"></script>
+<script src="/static/js/main.js?v=20240930.005512" type="module"></script>
 </body>
 </html>
